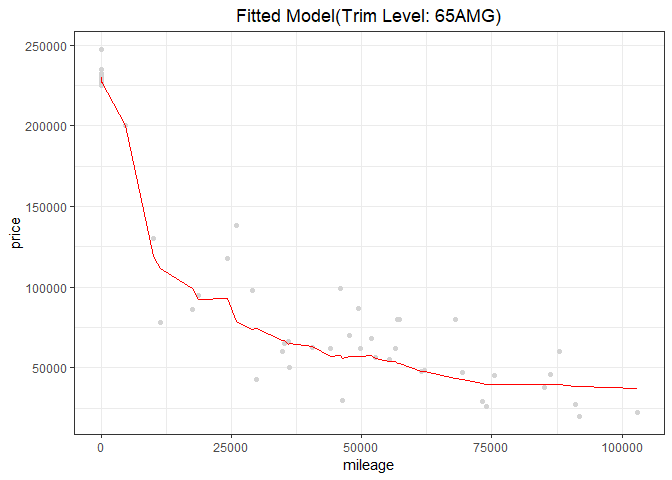
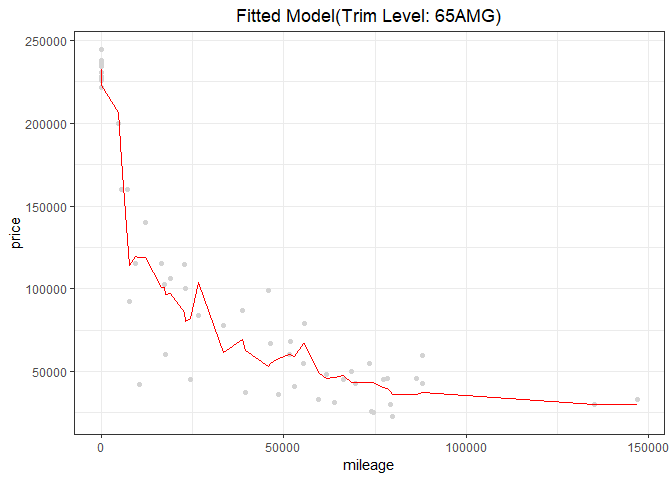
HW1.3 finished

diff --git a/HW1/Report/Exercise_1_Report.md b/HW1/Report/Exercise_1_Report.md
@@ -22,7 +22,7 @@ We splited the data into a training and a testing set. There are 80% of the data
 
 The optimal K for trim level 350 is printed below:
 
-    ## [1] 6
+    ## [1] 13
 
 Since the traning set is chosen randomly, if we run the KNN for several times, we will get different result. But generally, we can get the optimal K for trim level 350 is about 19. Then for the optimal value of K in this one running, a plot of the fitted modelis shown below:
 
@@ -38,20 +38,10 @@ We splited the data into a training and a testing set. There are 80% of the data
 
 The optimal K for trim level 65 AMG is printed below:
 
-    ## [1] 24
+    ## [1] 10
 
 Since the traning set is chosen randomly, if we run the KNN for several times, we will get different result. But generally, we can get the optimal K for trim level 65 AMG is about 16. Then for the optimal value of K in this one running, a plot of the fitted modelis shown below:
 
 <img src="Exercise_1_Report_files/figure-markdown_github/s65p_optimalplot-1.png" style="display: block; margin: auto;" />
 
-In the end, the following code showed that the average optimal K for trim level 350 is larger than optimal K for trim level 65 AMG. We think that this is because that the sample size for the first data subset is larger than the second, and hence has a larger optimal K.
-
-    ## Warning in mean.default(OptK_350$X5): argument is not numeric or logical:
-    ## returning NA
-
-    ## [1] NA
-
-    ## Warning in mean.default(OptK_65AMG$X7): argument is not numeric or logical:
-    ## returning NA
-
-    ## [1] NA
+In the end, it is showed that the average optimal K for trim level 350 is 19, which is larger than optimal K = 16 for trim level 65 AMG. We think that this is because that the sample size for the first data subset is larger than the second, and hence has a larger optimal K.
